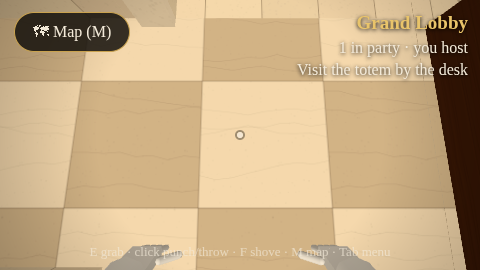
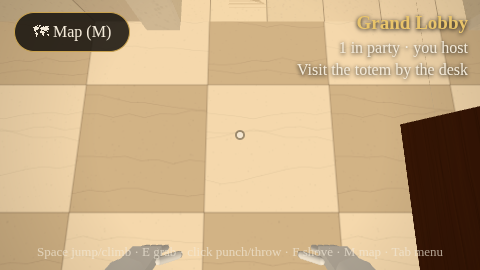
Jumping, wall climbing and ledge pull-ups
Space (desktop) or A (right controller) jumps, with a short grace after
walking off an edge. In VR, grip any wall, rail or ledge with an empty hand
and pull yourself up hand over hand. On desktop, hold Space against a wall to
climb it. Reaching a ledge while jumping or climbing pulls you up onto it.
Movement test covers jumping onto the information desk and climbing a
gallery partition.

Claude-Session: https://claude.ai/code/session_011No6nczeQGrtFrMJdAbwKn

diff --git a/client/src/player/player.ts b/client/src/player/player.ts
@@ -38,6 +38,12 @@ export class Player {
   smoothTurn = loadPref('smoothTurn', false);
   private lastSafe = new THREE.Vector3();
   dynamicBoxes: DynamicBox[] = [];
+  /** Jumping, climbing and pulling up onto ledges. */
+  private coyote = 0;
+  private climbAnchors: Partial<Record<Hand, THREE.Vector3>> = {};
+  private mantle: { from: THREE.Vector3; to: THREE.Vector3; t: number } | null = null;
+  /** True while climbing a wall on desktop (Space held against a wall). */
+  desktopClimbing = false;
 
   constructor(readonly camera: THREE.PerspectiveCamera, private renderer: THREE.WebGLRenderer, private bvh: MeshBVH) {
     this.rig.name = 'rig';
@@ -99,6 +105,59 @@ export class Player {
 
   setFade(target: number) { this.fadeTarget = target; }
 
+  // ─── Climbing (VR: grip any surface and pull; desktop: hold Space at a wall) ──
+  /** VR: try to grip the wall, rail or ledge at this hand. Returns true if there was something to hold. */
+  tryGripSurface(h: Hand): boolean {
+    const at = this.hands[h].glove.getWorldPosition(new THREE.Vector3());
+    if (distanceToGeometry(this.bvh, at, 0.3) > tunables.player.climbReach) return false;
+    this.climbAnchors[h] = at;
+    return true;
+  }
+
+  releaseGrip(h: Hand) { delete this.climbAnchors[h]; }
+
+  get climbing() { return Object.keys(this.climbAnchors).length > 0 || this.desktopClimbing; }
+
+  get mantling() { return !!this.mantle; }
+
+  private ray = new THREE.Ray();
+
+  /** First solid surface along a ray within `far`, or null. */
+  private cast(origin: THREE.Vector3, dir: THREE.Vector3, far: number) {
+    this.ray.set(origin, dir);
+    const hit = this.bvh.raycastFirst(this.ray, THREE.DoubleSide);
+    return hit && hit.distance <= far ? hit : null;
+  }
+
+  /** A ledge just ahead (top within reach, room to stand on it), as the point to stand on. */
+  private ledgeAhead(feet: THREE.Vector3, dir: THREE.Vector3): THREE.Vector3 | null {
+    // Look a little way ahead at a few distances (a thin wall's top is just past its face).
+    for (const d of [0.5, 0.7, 0.95]) {
+      const l = this.ledgeAt(feet, dir, d);
+      if (l) return l;
+    }
+    return null;
+  }
+
+  private ledgeAt(feet: THREE.Vector3, dir: THREE.Vector3, ahead: number): THREE.Vector3 | null {
+    const p = tunables.player;
+    const probe = feet.clone().addScaledVector(dir, ahead);
+    probe.y = feet.y + p.mantleMax + 0.3;
+    const down = this.cast(probe, new THREE.Vector3(0, -1, 0), p.mantleMax + 0.3);
+    if (!down || (down.face && Math.abs(down.face.normal.y) < 0.7)) return null;
+    const top = down.point.y;
+    if (top - feet.y < 0.4) return null; // a step, not a ledge
+    // Headroom on top, and nothing in the way at head height.
+    if (this.cast(new THREE.Vector3(probe.x, top + 0.05, probe.z), new THREE.Vector3(0, 1, 0), 1.7)) return null;
+    if (this.cast(new THREE.Vector3(feet.x, top + 1.2, feet.z), dir, ahead + 0.1)) return null;
+    return new THREE.Vector3(probe.x, top, probe.z);
+  }
+
+  /** Is there a wall right in front of the chest (desktop climbing)? */
+  private wallAhead(feet: THREE.Vector3, dir: THREE.Vector3): boolean {
+    return !!this.cast(new THREE.Vector3(feet.x, feet.y + 1.1, feet.z), dir, 0.7);
+  }
+
   /** Eyes closed: instantly and completely black (no peeking while it fades). */
   blackout = false;
 
@@ -113,6 +172,21 @@ export class Player {
   update(dt: number, a: Actions, menuOpen: boolean) {
     const p = tunables.player;
     const xr = this.inXR;
+
+    // Pulling up onto a ledge: a short scripted arc (up first, then over), no collision.
+    if (this.mantle) {
+      this.mantle.t = Math.min(1, this.mantle.t + dt / p.mantleSec);
+      const t = this.mantle.t, up = Math.min(1, t * 1.6), over = Math.max(0, (t - 0.35) / 0.65);
+      this.rig.position.set(
+        this.mantle.from.x + (this.mantle.to.x - this.mantle.from.x) * over,
+        this.mantle.from.y + (this.mantle.to.y - this.mantle.from.y) * up,
+        this.mantle.from.z + (this.mantle.to.z - this.mantle.from.z) * over);
+      this.velocity.set(0, 0, 0);
+      if (t >= 1) { this.mantle = null; this.grounded = true; this.lastSafe.copy(this.rig.position); }
+      if (!xr) { this.yaw += a.lookDelta.x; this.pitch = THREE.MathUtils.clamp(this.pitch + a.lookDelta.y, -1.45, 1.45); this.camera.rotation.set(this.pitch, 0, 0, 'YXZ'); }
+      this.rig.rotation.y = this.yaw;
+      return;
+    }
 
     // Turning.
     if (!xr) {
@@ -142,7 +216,37 @@ export class Player {
     this.velocity.z = tmpV.z + this.knock.z;
     this.knock.multiplyScalar(Math.max(0, 1 - dt * 6));
     this.velocity.y = this.grounded ? Math.max(this.velocity.y, -1) - p.gravity * dt : this.velocity.y - p.gravity * dt;
-    this.rig.position.addScaledVector(this.velocity, dt);
+
+    // Jump (with a moment's grace after walking off an edge).
+    this.coyote = this.grounded ? p.coyoteSec : Math.max(0, this.coyote - dt);
+    if (a.jumpPressed && this.coyote > 0 && move && !this.climbing) { this.velocity.y = p.jumpSpeed; this.coyote = 0; this.grounded = false; }
+
+    // Climbing. VR: each gripping hand stays put on the wall and the body follows it.
+    // Desktop: hold Space facing a wall to climb straight up it.
+    this.desktopClimbing = !xr && move > 0 && a.jumpHeld && !this.grounded && this.wallAhead(this.rig.position, fwd);
+    const anchors = Object.entries(this.climbAnchors) as [Hand, THREE.Vector3][];
+    if (anchors.length) {
+      const pull = new THREE.Vector3();
+      for (const [h, anchor] of anchors) pull.add(anchor.clone().sub(this.hands[h].glove.getWorldPosition(tmpV2)));
+      pull.divideScalar(anchors.length).clampLength(0, 0.3);
+      this.velocity.set(0, 0, 0);
+      this.rig.position.add(pull);
+    } else if (this.desktopClimbing) {
+      this.velocity.set(0, p.climbSpeed, 0);
+      this.rig.position.addScaledVector(this.velocity, dt);
+    } else this.rig.position.addScaledVector(this.velocity, dt);
+
+    // Reaching the top of something while jumping or climbing: pull up onto it.
+    if ((!this.grounded || this.climbing) && (a.move.y > 0.3 || this.climbing) && move) {
+      const ledge = this.ledgeAhead(this.rig.position, fwd);
+      if (ledge) {
+        this.headPosition(headWorld);
+        const off = new THREE.Vector3(headWorld.x - this.rig.position.x, 0, headWorld.z - this.rig.position.z);
+        this.mantle = { from: this.rig.position.clone(), to: ledge.sub(off), t: 0 };
+        this.climbAnchors = {};
+        return;
+      }
+    }
     this.frozen = Math.max(0, this.frozen - dt);
     this.knockFade = Math.max(0, this.knockFade - dt);
 

diff --git a/client/src/player/input.ts b/client/src/player/input.ts
@@ -18,6 +18,8 @@ export interface Actions {
   grabLeftPressed: boolean; grabRightPressed: boolean; // edges (desktop toggles)
   menuToggle: boolean;      // edge
   mapToggle: boolean;       // edge
+  jumpPressed: boolean;     // edge
+  jumpHeld: boolean;        // held (desktop: climb a wall you're facing)
   uiSelect: boolean;        // edge
   perfToggle: boolean;      // edge
 }
@@ -27,7 +29,7 @@ export const BINDINGS = {
     forward: ['KeyW', 'ArrowUp'], back: ['KeyS', 'ArrowDown'], left: ['KeyA', 'ArrowLeft'], right: ['KeyD', 'ArrowRight'],
     sprint: ['ShiftLeft', 'ShiftRight'], crouch: ['KeyC', 'ControlLeft'],
     grabRight: ['KeyE'], grabLeft: ['KeyQ'], shove: ['KeyF'],
-    menu: ['Escape', 'Tab'], perf: ['F3', 'Backquote'], map: ['KeyM'],
+    menu: ['Escape', 'Tab'], perf: ['F3', 'Backquote'], map: ['KeyM'], jump: ['Space'],
   },
   mouse: { useRight: 0, uiSelect: 0 },
   /** xr-standard gamepad mapping: button indices and axes. */
@@ -49,7 +51,7 @@ export class DesktopInput {
 
   constructor(private el: HTMLElement) {
     addEventListener('keydown', (e) => {
-      if (e.code === 'Tab') e.preventDefault();
+      if (e.code === 'Tab' || e.code === 'Space') e.preventDefault();
       if (!this.keys.has(e.code)) this.pressed.add(e.code);
       this.keys.add(e.code);
     });
@@ -92,6 +94,8 @@ export class DesktopInput {
     out.uiSelect = this.mousePressed;
     out.menuToggle = this.edge(k.menu);
     out.mapToggle = this.edge(k.map);
+    out.jumpPressed = this.edge(k.jump);
+    out.jumpHeld = this.any(k.jump);
     out.perfToggle = this.edge(k.perf);
     this.pressed.clear();
     this.mousePressed = false;
@@ -102,7 +106,7 @@ export function emptyActions(): Actions {
   return {
     move: new THREE.Vector2(), turn: 0, snapTurn: 0, lookDelta: new THREE.Vector2(), sprint: false, crouch: false,
     grabLeft: false, grabRight: false, useLeft: false, useRight: false, useRightPressed: false, shovePressed: false,
-    grabLeftPressed: false, grabRightPressed: false, menuToggle: false, mapToggle: false, uiSelect: false, perfToggle: false,
+    grabLeftPressed: false, grabRightPressed: false, menuToggle: false, mapToggle: false, jumpPressed: false, jumpHeld: false, uiSelect: false, perfToggle: false,
   };
 }
 
@@ -123,7 +127,7 @@ export class XRInput {
   read(session: XRSession | null, dt: number, out: Actions) {
     out.move.set(0, 0); out.turn = 0; out.snapTurn = 0;
     out.grabLeft = out.grabRight = out.useLeft = out.useRight = false;
-    out.menuToggle = false; out.mapToggle = false; out.uiSelect = false; out.sprint = false;
+    out.menuToggle = false; out.mapToggle = false; out.jumpPressed = false; out.jumpHeld = false; out.uiSelect = false; out.sprint = false;
     if (!session) return;
     const b = BINDINGS.xr;
     for (const src of session.inputSources) {
@@ -156,6 +160,7 @@ export class XRInput {
         if (Math.abs(ax) < 0.3) this.snapArmed = true;
         out.grabRight = !!pressed[b.squeeze];
         out.useRight = !!pressed[b.trigger];
+        if (edge(b.ax)) out.jumpPressed = true; // A jumps
         if (edge(b.trigger)) out.uiSelect = true;
       }
       this.prev.set(hand, pressed);

diff --git a/tools/smoke/movement-desktop.ts b/tools/smoke/movement-desktop.ts
@@ -94,6 +94,24 @@ await walkUntil(Math.PI, `${G}.player.feet.y < -5.8`, 'did not get down the serv
 await walkUntil(0, `${G}.player.feet.z < -74 && ${G}.player.feet.y > -0.1`, 'could not climb back out of the basement');
 console.log('basement: down and back up to', (await feet()).map((v) => v.toFixed(1)).join(', '));
 
+// Jumping and climbing: jump and pull up onto the information desk (1.1 m); climb a gallery partition (3.6 m).
+await tp(25.5, 0, 4.0, 0);
+await page.waitForTimeout(800);
+await page.keyboard.down('KeyW');
+await page.keyboard.press('Space');
+await page.waitForFunction(`${G}.player.feet.y > 1.0 && ${G}.player.grounded`, undefined, { timeout: 15000 }).catch(() => fail('could not jump up onto the desk'));
+await page.keyboard.up('KeyW');
+console.log('jumped onto the desk:', (await feet()).map((v) => v.toFixed(1)).join(', '));
+await tp(-49, 0, 19.3, Math.PI);
+await page.waitForTimeout(800);
+await page.keyboard.down('KeyW');
+await page.keyboard.down('Space');
+await page.waitForFunction(`${G}.player.feet.y > 3.5 && ${G}.player.grounded`, undefined, { timeout: 30000 }).catch(() => fail('could not climb the gallery partition'));
+await page.keyboard.up('Space');
+await page.keyboard.up('KeyW');
+console.log('climbed onto the partition:', (await feet()).map((v) => v.toFixed(1)).join(', '));
+await page.screenshot({ path: 'docs/screens/_smoke-climb.png' });
+
 // 3. Climb the grand staircase on foot (sprinting) to the second-floor landing.
 await tp(14.5, 0, 0, Math.PI / 2);
 await page.waitForTimeout(800);

diff --git a/client/src/ui/overlay.ts b/client/src/ui/overlay.ts
@@ -42,13 +42,13 @@ export class DesktopOverlay {
     this.root.innerHTML = `<div><h1>THE MUSEUM</h1><div class="sub">After hours. Bring friends. Touch everything.</div>
       <div class="row"><button class="play">Play on desktop</button><div class="vr"></div></div>
       <div class="status"></div>
-      <div class="keys">WASD move · mouse look · Shift sprint · C crouch<br>E / Q grab with right / left hand · click to punch or throw · F shove · M map · Tab menu</div></div>`;
+      <div class="keys">WASD move · mouse look · Shift sprint · C crouch · Space jump (hold at a wall to climb)<br>E / Q grab with right / left hand · click to punch or throw · F shove · M map · Tab menu</div></div>`;
     document.body.appendChild(this.root);
     this.statusEl = this.root.querySelector('.status')!;
     this.vrSlot = this.root.querySelector('.vr')!;
     this.root.querySelector<HTMLButtonElement>('.play')!.onclick = onPlay;
     this.hudEl = el('hud'); this.xh = el('xh'); this.hint = el('hint'); this.cardEl = el('card'); this.results = el('results');
-    this.hint.textContent = 'E grab · click punch/throw · F shove · M map · Tab menu';
+    this.hint.textContent = 'Space jump/climb · E grab · click punch/throw · F shove · M map · Tab menu';
     if (hidden) this.hideAll();
   }
 

diff --git a/shared/src/config/tunables.ts b/shared/src/config/tunables.ts
@@ -28,6 +28,18 @@ export const tunables = {
     throwHistoryFrames: 6,
     /** Max throw speed, m/s (clamped server-side too). */
     maxThrowSpeed: 14,
+    /** Take-off speed of a jump, m/s (about 0.75 m high with this gravity). */
+    jumpSpeed: 5.2,
+    /** A jump still works this long after walking off an edge, s. */
+    coyoteSec: 0.12,
+    /** Desktop wall climbing speed, m/s (VR climbs hand over hand). */
+    climbSpeed: 1.8,
+    /** A hand this close to a surface can grip it to climb (VR), m. */
+    climbReach: 0.09,
+    /** Highest ledge (above your feet) you can pull yourself up onto, m. */
+    mantleMax: 1.9,
+    /** Time to pull up onto a ledge, s. */
+    mantleSec: 0.35,
   },
   net: {
     /** Client pose send rate, Hz. */

diff --git a/client/src/game.ts b/client/src/game.ts
@@ -398,8 +398,11 @@ export class Game {
           else {
             const door = this.doors.near(hand.pos, 1.0);
             if (door) { net.send('useDoor', { id: door }); this.audio.play('door', this.doors.position(door)); }
+            // Nothing to pick up: grip the wall, rail or ledge itself and climb.
+            else if (this.player.tryGripSurface(h)) this.haptic(h, 0.35, 30);
           }
         }
+        if (!grip && this.prevGrip[h]) this.player.releaseGrip(h);
         if (!grip && this.prevGrip[h] && hand.heldId) this.release(h, hand.velocity);
         this.prevGrip[h] = grip;
         // Push elevator buttons with a fingertip.
